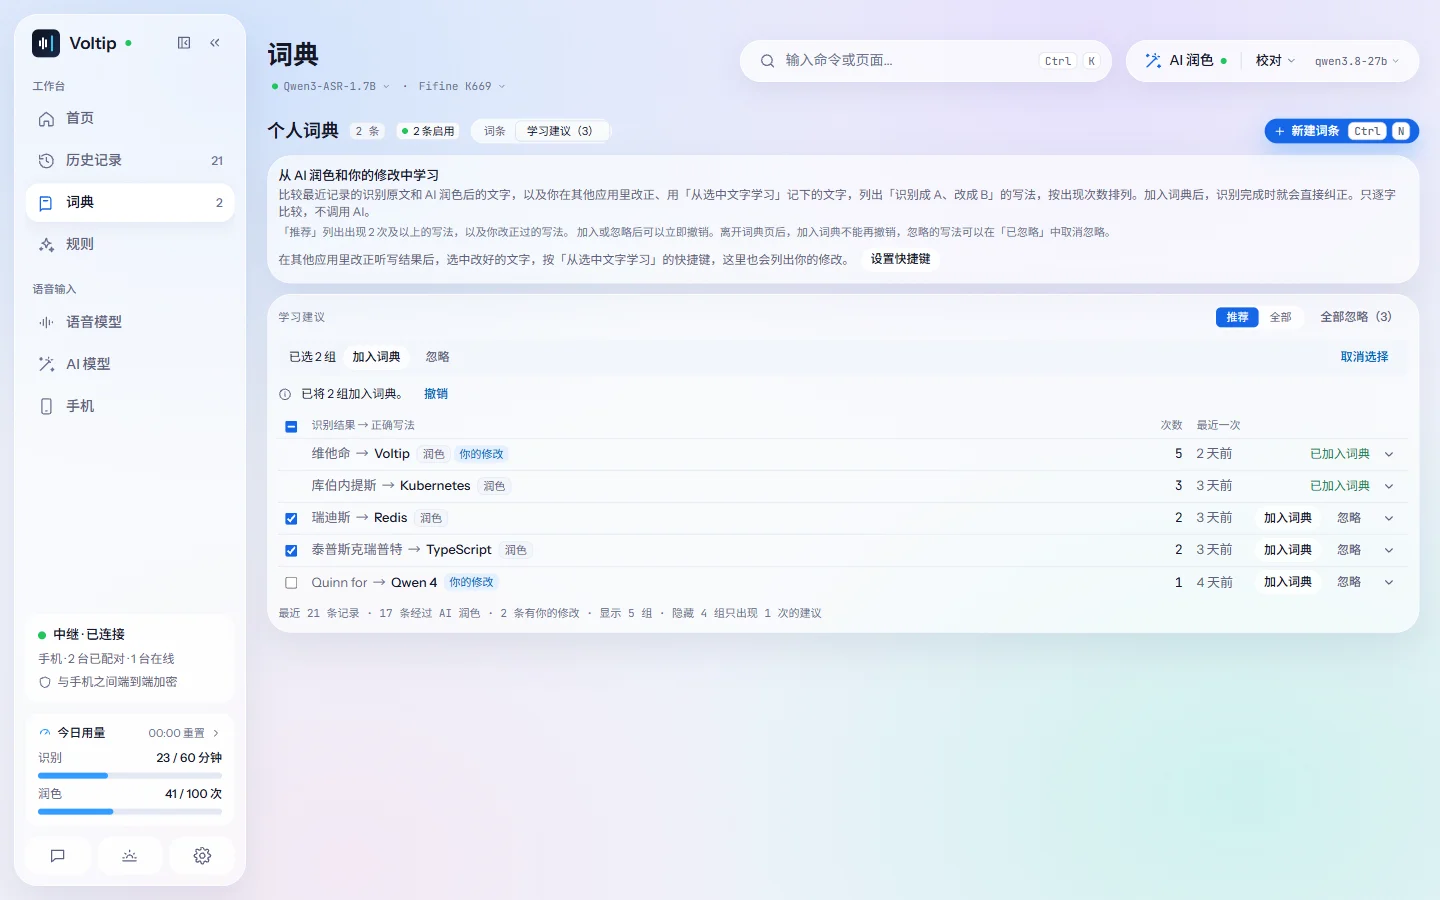
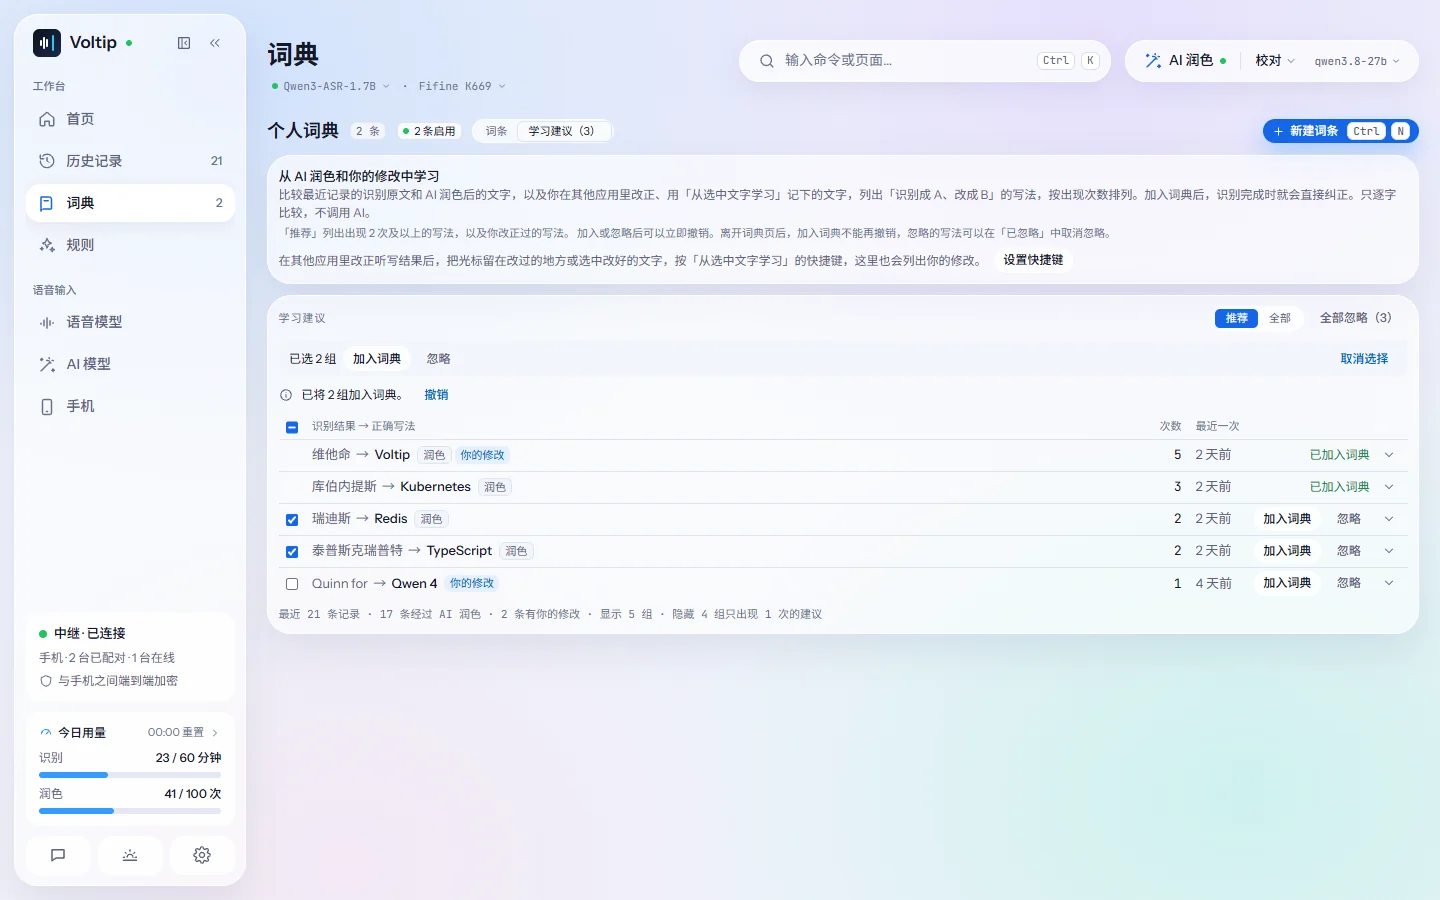
docs(voltip): sync from voltip@00d438c
Source: https://github.com/sunerpy/voltip/commit/00d438c1e9ed1cf12bc8dec4fe867c8b97984f77

diff --git a/voltip/src/zh/dev/threat-model.md b/voltip/src/zh/dev/threat-model.md
@@ -20,7 +20,7 @@
 | 本机语音服务被其他用户、网页或局域网滥用（`docs/dictation.md` §23） | 默认只监听回环地址，`voltip-server` 监听其他地址必须加 `--allow-remote`（并警告明文），App 只监听 127.0.0.1；除 `/healthz` 外每个请求都要 32 字节随机令牌（0600 文件，常量时间比较，可随时更换），没有关闭认证的选项；不返回 CORS 头，网页读不到响应；并发与排队有上限，时长、请求体和字段有界限，原始上传不落盘；日志不记文字、音频和令牌；无头服务端只读钥匙串与 App 的文件；没有钥匙串时可以从 `VOLTIP_KEY_*` 环境变量读取密钥（只在 voltip-server，文档建议 0600 的 EnvironmentFile；同一用户的进程能读到服务的环境变量，这一点写在文档里），`--check` 和日志只给变量名 | `the_token_guards_everything_but_the_health_check`、`malformed_and_oversized_requests_are_refused`、`a_waiting_request_reads_nothing_until_it_has_a_permit_and_a_full_queue_is_refused`（`voltip-serve`）；`the_command_line_names_the_service_and_its_one_shot_actions`、`print_token_creates_the_token_once_and_prints_it_again`（`voltip-server`）；`peek` 的零写入测试（`voltip-identity`）；`keys_from_the_environment_win_over_the_keychain_and_are_named_never_printed`（`voltip-server`） |
 | 代理看到或改动 Voltip 的流量（`docs/dictation.md` §24） | 代理只转发：`https://` 的请求（内置服务、服务商的默认地址、更新源、反馈服务）仍是端到端的 TLS（证书照常校验），中继里的内容还有 Noise E2EE，代理能看到的是要连接的主机和流量的大小与时间。用户自填的 `http://` 自定义端点（远程地址也允许）经过代理时是明文，代理能读到并改动录音、文字和密钥，与没有代理时网络路径上的风险相同；隐私页提醒改用 `https://` 或把它列入不使用代理的地址；本机地址（本地模型服务、本机语音服务）从不发给代理；手动代理的密码只在钥匙串，`settings.json`、界面、状态、日志里都没有；日志与错误不记代理的地址和用户名密码；`socks5h` 让代理解析域名，`socks5` 在本机解析 | `a_stream_tunnels_through_an_http_proxy_with_its_credentials`、`a_local_stream_goes_direct_and_a_refused_tunnel_names_no_host`、`a_client_follows_the_plan_from_one_request_to_the_next`（`voltip-net`）；`the_relay_connects_through_the_saved_proxy_with_the_keychain_password`（`voltip-core`）；`no proxy applies at once; a manual proxy is checked, saved tidy, its password kept out of view`（桌面） |
 | AI 工具接入（本机 MCP 服务，`docs/dictation.md` §25）被其他程序、网页或历史里的提示注入滥用 | 默认关闭，只监听 127.0.0.1，没有监听其他地址的选项；除 `/healthz` 外每个请求都要 32 字节随机令牌（0600 文件，与本机语音服务的令牌分开，常量时间比较，可随时更换，换后立即生效）；`Host` 只认 `127.0.0.1:{port}` / `localhost:{port}`（防 DNS rebinding），带 `Origin` 的请求一律拒绝，不返回 CORS 头，网页读不到响应；读取分三级（仅词典和规则 / 替换汇总（缺省）/ 完整历史），完整历史要用户在确认框里显式允许并限定时间范围，权限在每次调用时检查、收回立即生效；修改缺省只能写词典，外部工具新建的规则在用户启用前不执行（历史文本是不可信数据，可能带提示注入，规则会改写插入到任何应用里的文字），没有删除工具，每次写入都记在活动记录里并可撤销；最多 16 个会话、每会话每秒 10 次调用、单次结果 256 KiB；日志不记请求和结果里的文字；令牌与接入命令由核心放进剪贴板，不经过 webview | `crates/voltip-mcp/tests/http.rs@requests_without_the_token_or_from_a_web_page_are_refused`、`crates/voltip-mcp/tests/http.rs@the_levels_of_the_moment_decide_each_call`、`crates/voltip-mcp/tests/http.rs@a_clients_rule_waits_and_its_writes_can_be_undone`、`crates/voltip-mcp/tests/http.rs@sessions_and_calls_are_limited`、`crates/voltip-mcp/tests/http.rs@a_new_token_and_switching_off_take_effect_at_once`、`crates/voltip-mcp/tests/http.rs@the_logs_hold_no_text`；`crates/voltip-core/tests/mcp.rs@reads_follow_the_read_level_of_the_moment`、`crates/voltip-core/tests/mcp.rs@a_tools_rule_waits_for_approval_and_runs_once_approved` |
-| 从选中文字学习（`docs/dictation.md` §35）读到不该读的文字，或把它留在别处 | 只在用户按下快捷键（或运行 `--learn-selection`）时读一次：前台是终端时不按任何键；选区经剪贴板读取，做法与语音编辑相同（§19.2：先保存剪贴板全部内容，读完放回，期间用户另复制的内容不覆盖）；超过 8000 字不处理；只与最新 50 条听写比较，只存与某次听写对应的那一段改后的文字（历史记录关闭时什么也不存），存在本机历史里，删除记录、清空历史时一起删除，用户可以在历史详情里移除；不调用 AI、不发给任何服务；日志只记结果种类、条数和字数 | `crates/voltip-core/tests/learn.rs@the_notice_says_why_nothing_was_learned`（历史记录关闭、终端里都不按键）、`crates/voltip-core/tests/learn.rs@a_selection_corrects_the_take_and_the_notice_offers_its_pair`、`crates/voltip-inject/tests/real_display.rs@real_copy_chord_reads_the_selection_of_an_x11_text_widget`（剪贴板放回）、`crates/voltip-core/src/history/tests.rs@a_correction_is_stored_beside_the_entry_searched_and_read_with_the_recent_texts` |
+| 从选中文字学习（`docs/dictation.md` §35）读到不该读的文字，或把它留在别处 | 只在用户按下快捷键（或运行 `--learn-selection`）时读一次：前台是终端时不按任何键、不读取；选区经剪贴板读取，另经焦点控件的辅助功能接口读当前输入框，留下光标所在段落的前后各至多 200 字（2026-11-25；读法同插入确认：Windows 先读入整个控件的文字，只有整段值的控件读入整段，再截取；跳过规则与截止时间同插入确认：密码框、终端、远程桌面、虚拟机不经辅助功能接口读取，说不出应用时不读；只有截取后的文字离开读取线程，只在内存里比较），做法与语音编辑相同（§19.2：先保存剪贴板全部内容，读完放回，期间用户另复制的内容不覆盖）；超过 8000 字不处理；只与最新 50 条听写比较，只存与某次听写对应的那一段改后的文字（历史记录关闭时什么也不存），存在本机历史里，删除记录、清空历史时一起删除，用户可以在历史详情里移除；不调用 AI、不发给任何服务；日志只记结果种类、条数和字数 | `crates/voltip-core/tests/learn.rs@the_notice_says_why_nothing_was_learned`（历史记录关闭、终端里都不按键）、`crates/voltip-core/tests/learn.rs@regression_a_terminal_the_voice_edit_allows_is_still_not_learned_from`（终端里也不读取）、`crates/voltip-focus/src/lib.rs@a_learning_read_skips_terminals_remote_screens_and_password_fields`、`crates/voltip-platform/src/insert_check/rules.rs@a_learning_context_never_prints_its_text`、`crates/voltip-core/tests/learn.rs@a_selection_corrects_the_take_and_the_notice_offers_its_pair`、`crates/voltip-inject/tests/real_display.rs@real_copy_chord_reads_the_selection_of_an_x11_text_widget`（剪贴板放回）、`crates/voltip-core/src/history/tests.rs@a_correction_is_stored_beside_the_entry_searched_and_read_with_the_recent_texts` |
 | 内置服务的每日额度被绕过，或用量把用户关联起来（`docs/dictation.md` §27） | 设备号是首次使用时生成的随机 UUID（`usage-id`），与配对密钥无关，不进备份、不同步，只发给内置服务；内置服务仍要应用令牌，按 IP 的限流照旧；额度是没有账号时的公平使用额度，不是安全边界（重装或伪造请求头能拿到新的额度，旧版本按 IP 计数）；额度用完只影响内置服务，其他服务商和本机模型照常可用；网关的统计只给每台设备 / 每个 IP 一个数，不含设备号和 IP；用量记录不含录音和文字 | `crates/voltip-cloud/src/lib.rs@only_the_built_in_service_is_told_who_asks`、`crates/voltip-core/src/usage/mod.rs@the_device_id_is_made_once_and_read_without_writing`、`apps/server/tests/cli.rs@the_server_meters_as_the_apps_device_or_as_itself_and_never_writes_the_apps_directory` |
 | 中继的统计泄露谁在和谁连接（`docs/pairing.md`「中继统计」） | `GET /stats` 只在中继的回环监听地址上，反向代理只转发 `/ws`；只有按小时的计数，不含 IP、频道、会话号和验证码；版本只按已发布版本的名单分桶，其余记为 `other`，每小时的桶数有上限 | `crates/voltip-relay/src/core.rs@the_statistics_count_what_happened_and_name_no_device`、`crates/voltip-relay/src/stats.rs@regression_versions_are_named_only_from_the_policy_or_up_to_the_hours_slots` |
 | 管理台被冒用：调高最低版本把所有客户端挡在外面，或改动额度（`docs/runbook.md`「管理台与同步」） | 管理台（私有仓库 `sunerpy/voltip-admin`）只在 Cloudflare Access 之后；Functions 用团队域的公钥验证每个请求的 `Cf-Access-Jwt-Assertion`（签名、`aud`、`exp`），失败一律 403；同步接口只认 Access 的 service token；最低版本只能选已发布的版本，并发修改按 revision 回 409，每次修改记审计（邮箱、前后内容、时间），可以恢复上一个设置；中继和网关主机上的本地覆盖文件优先于同步来的配置，坏的配置不会替换上一份有效配置 | 私有仓库的 `site/` 测试（Access JWT 用测试密钥对、409、已发布版本校验、同步令牌）；`crates/voltip-relay/src/policy.rs@the_override_wins_while_valid_and_a_broken_main_file_keeps_the_last_valid_policy` |

diff --git a/voltip/src/recognition/dictionary.md b/voltip/src/recognition/dictionary.md
@@ -115,7 +115,7 @@ To let AI tools such as Claude Code or Codex analyse the history with your proje
 Spellings the dictionary already corrects and pairs you ignored are left out. Voltip compares the recognised text, the polished text and your corrected text character by character; no AI is used and nothing is sent anywhere.
 
 <ScreenFigure src="/screens/dictionary-suggestions-en-light.webp" width="1440" height="900"
-  alt="Suggestions on the Dictionary page, showing the five Suggested pairs, each marked with its source, Polish or Your correction: 维他命 → Voltip has both, and Quinn for → Qwen 4 was seen once, from your correction. The first two were added to the dictionary together: the line above the list says “Added 2 pairs to the dictionary.” and has Undo. The pairs for 瑞迪斯 and 泰普斯克瑞普特 are checked, and the bar above the list adds or ignores them at once. Under the explanation, a line offers to set the Learn from selection shortcut. The line under the list says 2 entries have your corrections, 5 pairs are shown and 4 pairs seen once are hidden."
+  alt="Suggestions on the Dictionary page, showing the five Suggested pairs, each marked with its source, Polish or Your correction: 维他命 → Voltip has both, and Quinn for → Qwen 4 was seen once, from your correction. The first two were added to the dictionary together: the line above the list says “Added 2 pairs to the dictionary.” and has Undo. The pairs for 瑞迪斯 and 泰普斯克瑞普特 are checked, and the bar above the list adds or ignores them at once. Under the explanation, a line says to leave the cursor in the change or select the corrected text and press the Learn from selection shortcut, and offers to set it. The line under the list says 2 entries have your corrections, 5 pairs are shown and 4 pairs seen once are hidden."
   caption="Each pair names its source; check several rows to add them to the dictionary or ignore them at once, and Undo takes back the whole batch." />
 
 - By default the list shows the **Suggested** pairs: those seen twice or more, and those you corrected (even once). Choose **All** above the list to include the other pairs seen once. The number after **Suggestions** counts the pairs left to decide in the current view, and the line under the list says how many pairs are shown, how many entries carry your corrections, and how many pairs seen once are hidden.
@@ -135,11 +135,12 @@ After you correct a dictation in another app, you can give Voltip the corrected 
 
 1. Under **Settings → Shortcuts**, set a shortcut for **Learn from selection**. It is not set by default, and it must differ from the shortcuts for dictation, voice editing and copying the last result.
 2. When the inserted text has an error, correct it where it is, for example “I'm testing Quinn for max” to “I'm testing Qwen 4 max”.
-3. Select the corrected text and press the shortcut. Selecting a little more or less is fine, and so is a selection over several dictations in a row.
+3. Leave the cursor in the change, or select the corrected text, and press the shortcut. Selecting only the corrected words, the whole sentence, or several dictations in a row all work.
 4. The overlay shows “Noted 1 change: Quinn for → Qwen 4”. **Add to dictionary** adds it at once, and you can undo it; **View** opens the suggestions. You can also leave it: the change stays among the suggestions, marked **Your correction**.
 
-- Voltip reads the selection by copying it, and puts the clipboard back afterwards. In a terminal it reads nothing and presses no key.
-- Voltip looks for the dictation the selection corrects among your last 50 dictations. When none matches, the selection is the same as what was dictated, or nothing is selected, the overlay says so.
+- Voltip reads the selection by copying it, and puts the clipboard back afterwards. Through the system's accessibility interface it also reads the field and keeps up to 200 characters before and after the cursor, within its paragraph, to find the dictation (how it reads: [Privacy](/privacy#learn-from-selection)). In a terminal it reads nothing and presses no key; password fields, remote desktops and virtual machines are not read through the accessibility interface, only the selection is copied.
+- Voltip looks for the dictation at the cursor among your last 50 dictations; other dictations in the same paragraph are left alone. When the field cannot be read (some apps cannot be, or the read takes too long), only the selection is compared: then select the unchanged words around your change too.
+- When none matches, the selection is the same as what was dictated, or nothing is selected and nothing near the cursor can be read, the overlay says so.
 - The corrected text is kept with that history entry: its details gain a **Later corrected to** line, and **Remove** deletes it. Learn from selection needs the history to be on.
 - When a change has a spelling of one character or one or two letters, the overlay offers **View** only: check what it would change on the dictionary page before adding it.
 - The overlay stays for 8 seconds, counted again after each button, and goes when the next dictation starts. While a dictation's result card is on screen, it appears after the card is closed.

diff --git a/voltip/src/zh/recognition/dictionary.md b/voltip/src/zh/recognition/dictionary.md
@@ -115,7 +115,7 @@ case_sensitive = false
 词典已经纠正的写法和你忽略过的写法不会列出。Voltip 只逐字比较识别原文、润色后的文字和你改正后的文字，不调用 AI，也不发送任何内容。
 
 <ScreenFigure src="/screens/dictionary-suggestions-zh-light.webp" width="1440" height="900"
-  alt="「词典」页的「学习建议」：「推荐」范围显示五组写法，每组写法后标出来源「润色」或「你的修改」，「维他命 → Voltip」两个来源都有，「Quinn for → Qwen 4」只出现 1 次、来自你的修改。前两组已一次加入词典，列表上方写明「已将 2 组加入词典。」并带「撤销」；「瑞迪斯」和「泰普斯克瑞普特」两组已勾选，上方的选择栏可以一次加入词典或忽略。说明卡下方提示可以设置「从选中文字学习」的快捷键。列表下方写明 2 条记录有你的修改、显示 5 组、隐藏 4 组只出现 1 次的建议。"
+  alt="「词典」页的「学习建议」：「推荐」范围显示五组写法，每组写法后标出来源「润色」或「你的修改」，「维他命 → Voltip」两个来源都有，「Quinn for → Qwen 4」只出现 1 次、来自你的修改。前两组已一次加入词典，列表上方写明「已将 2 组加入词典。」并带「撤销」；「瑞迪斯」和「泰普斯克瑞普特」两组已勾选，上方的选择栏可以一次加入词典或忽略。说明卡下方提示：改正后把光标留在改过的地方或选中改好的文字，按「从选中文字学习」的快捷键，旁边可以设置这个快捷键。列表下方写明 2 条记录有你的修改、显示 5 组、隐藏 4 组只出现 1 次的建议。"
   caption="每组写法标出来源；勾选几行，一次加入词典或忽略，点「撤销」撤回整批。" />
 
 - 列表默认显示「推荐」的写法：出现 2 次及以上的，以及你改正过的（只出现 1 次也显示）。在列表上方选择「全部」，其余只出现过 1 次的写法也会列出。「学习建议」后面的数字是当前范围内尚未处理的组数，列表下方写明显示了多少组、有几条记录带有你的修改、隐藏了多少组只出现 1 次的写法。
@@ -135,11 +135,12 @@ case_sensitive = false
 
 1. 在「设置 → 快捷键」中为「从选中文字学习」设置一个快捷键。这个快捷键默认未设置，不能与听写、语音编辑、复制上一条结果的快捷键相同。
 2. 听写插入的文字有误时，在原来的位置把它改正，例如把「我在用 Quinn for max 做测试」改成「我在用 Qwen 4 max 做测试」。
-3. 选中改好的文字，按下这个快捷键。多选或少选一些都可以，也可以一次选中连续几次听写的文字。
+3. 把光标留在改过的地方，或者选中改好的文字，按下这个快捷键。只选中改好的词、选中整句，或一次选中连续几次听写的文字都可以。
 4. 悬浮窗显示「已记下 1 处改动：Quinn for → Qwen 4」。点「加入词典」直接加入词典，之后可以撤销；点「查看」打开学习建议。不做处理也可以，这组改动会留在学习建议中，标为「你的修改」。
 
-- Voltip 用复制的方式读取选中的文字，读取后剪贴板恢复原来的内容。终端里不读取，也不按任何键。
-- Voltip 在最近 50 次听写中查找与选中文字对应的记录。找不到、选中的文字与听写结果相同、没有选中文字时，悬浮窗会说明原因。
+- Voltip 用复制的方式读取选中的文字，读取后剪贴板恢复原来的内容。它还通过系统的辅助功能接口读取当前输入框，留下光标所在段落里前后各最多 200 字，用来找到这次听写（读取方式见[隐私](/zh/privacy#从选中文字学习)）。终端里不读取，也不按任何键；密码框、远程桌面和虚拟机里的输入框不经辅助功能接口读取，只复制选中的文字。
+- Voltip 在最近 50 次听写中查找光标处的那次听写，同一段里的其他听写不受影响。读不到这个输入框时（部分应用读不到，或读取超时），只按选中的文字查找，这时请连同改动前后没改的字一起选中。
+- 找不到、选中的文字与听写结果相同、既没有选中文字也读不到光标附近的文字时，悬浮窗会说明原因。
 - 改正后的文字保存在这条历史记录中，记录详情会多出一行「之后改成」，点「移除」可以删除它。历史记录关闭时无法使用这项功能。
 - 改动里有只有 1 个字或 1–2 个字母的写法时，悬浮窗只提供「查看」，请在词典页确认影响范围后再加入。
 - 悬浮窗停留 8 秒，点按钮后重新计时，下一次听写开始时消失。听写结果的卡片还在屏幕上时，它会在卡片关闭之后出现。

diff --git a/voltip/src/privacy.md b/voltip/src/privacy.md
@@ -66,7 +66,7 @@ To check that a paste arrived, Voltip reads the input field that has the focus o
 
 ## Learn from selection
 
-Only when you press the **Learn from selection** shortcut (or run `voltip-desktop --learn-selection`) does Voltip read the text selected in the app in front, once: it presses the copy keys, reads the selection from the clipboard and puts the clipboard back as it was; while it reads, other programs that read the clipboard (a clipboard manager, for example) may see the text. In a terminal nothing is read and no key is pressed; a selection of more than 8000 characters is not used. The selection is compared on this computer with your last 50 dictations only, sent to no service and never to AI; the log records only the outcome, how many entries and how many characters. When it corrects a dictation, the corrected text of that dictation is kept in its history entry: it is backed up and synced to paired phones with the history, deleted with the entry or when the history is cleared, and can be removed on its own in the entry's details. With the history off, nothing is read or kept. See [Learn from selection](/recognition/dictionary#learn-from-selection).
+Only when you press the **Learn from selection** shortcut (or run `voltip-desktop --learn-selection`) does Voltip read the text selected in the app in front, once: it presses the copy keys, reads the selection from the clipboard and puts the clipboard back as it was; while it reads, other programs that read the clipboard (a clipboard manager, for example) may see the text. Through the system's accessibility interface it also reads the field and keeps up to 200 characters before and after the cursor, within its paragraph, to find the dictation; when that cannot be read, only the selection is used. As with the insert check above, on Windows the field's whole text is read first, and a field that only gives its whole value is read whole, before the part is cut out. In a terminal nothing is read and no key is pressed; password fields, remote desktops and virtual machines are not read through the accessibility interface, though the selection is still copied as above; a selection of more than 8000 characters is not used. The selection and the text kept around it are compared in memory on this computer with your last 50 dictations only, then dropped, sent to no service and never to AI; the log records only the outcome, how many entries and how many characters. When it corrects a dictation, the corrected text of that dictation is kept in its history entry: it is backed up and synced to paired phones with the history, deleted with the entry or when the history is cleared, and can be removed on its own in the entry's details. With the history off, nothing is read or kept. See [Learn from selection](/recognition/dictionary#learn-from-selection).
 
 ## The local service
 

diff --git a/voltip/src/dictation/shortcuts.md b/voltip/src/dictation/shortcuts.md
@@ -86,7 +86,7 @@ Under **Settings → Shortcuts**, **Copy last result** takes a shortcut of its o
 
 ## Learn from selection
 
-Under **Settings → Shortcuts**, **Learn from selection** takes a shortcut of its own, none by default. After you correct a dictation in another app, select the corrected text and press it: Voltip notes the change for the dictionary's suggestions, and the overlay shows the change it noted. It must differ from the dictation, voice edit and Copy last result shortcuts. See [Learn from selection](/recognition/dictionary#learn-from-selection) for how to use it.
+Under **Settings → Shortcuts**, **Learn from selection** takes a shortcut of its own, none by default. After you correct a dictation in another app, leave the cursor in the change or select the corrected text, and press it: Voltip finds the dictation and notes the change for the dictionary's suggestions, and the overlay shows the change it noted. It must differ from the dictation, voice edit and Copy last result shortcuts. See [Learn from selection](/recognition/dictionary#learn-from-selection) for how to use it.
 
 ## Recording source
 
